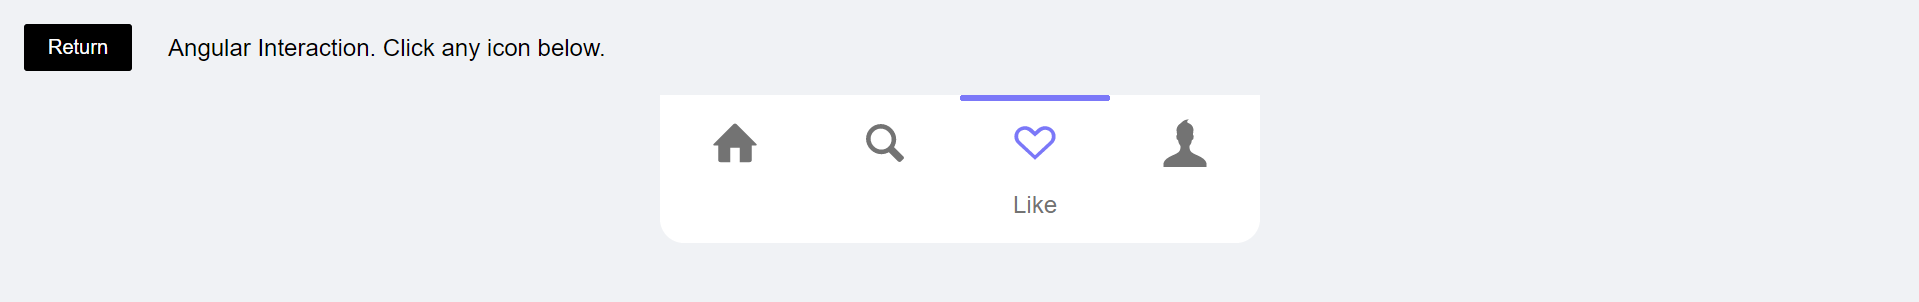
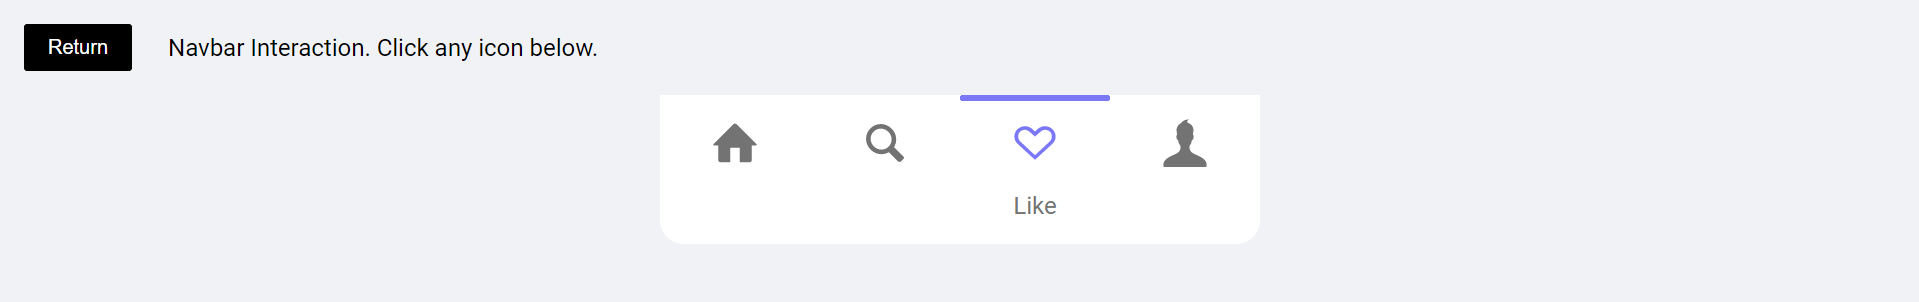
Fix logbug navbar

Changed region(s): [[0.0615, 0.1192, 0.3382, 0.2086], [0.5227, 0.6556, 0.5534, 0.7152]]

diff --git a/src/app/components/navbar/navbar.component.html b/src/app/components/navbar/navbar.component.html
@@ -1,6 +1,6 @@
 <div class="d-flex ai-center m-2 text-center">
     <app-go-back></app-go-back>
-    <p class="ml-3">navbar Interaction. Click any icon below.</p>
+    <p class="ml-3">Navbar Interaction. Click any icon below.</p>
 </div>
 
 <div class="navbar m-0-auto">
